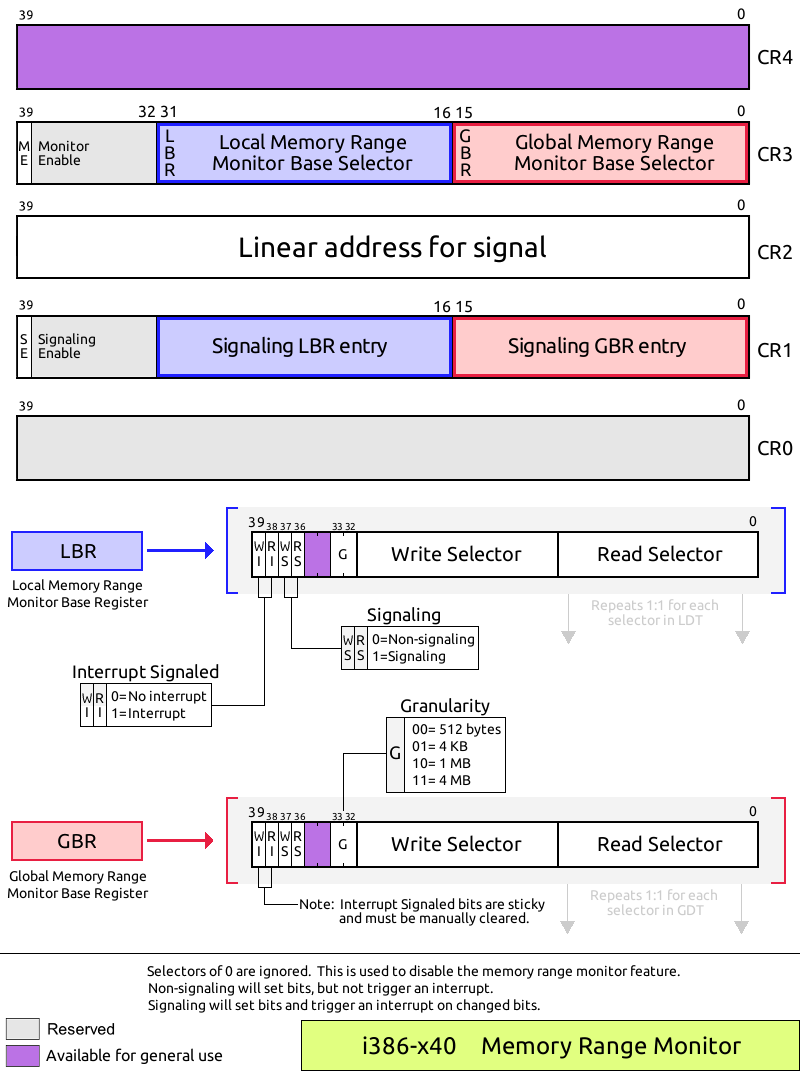
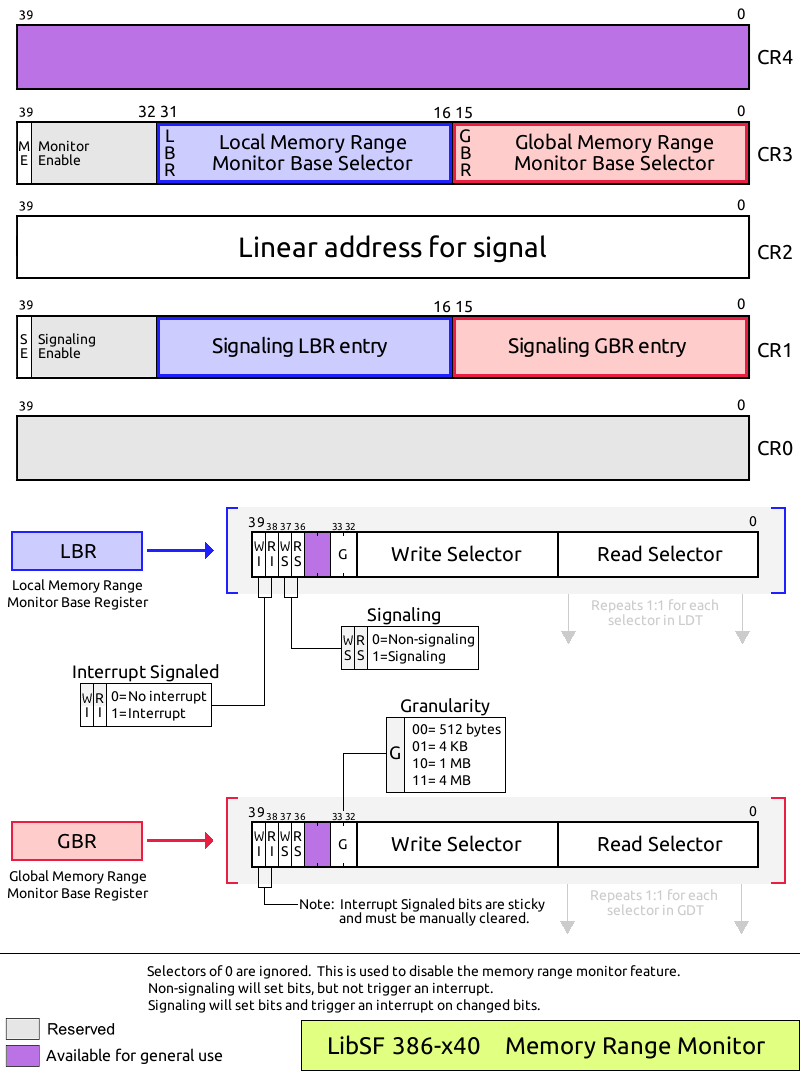
li386 update documentation to reflect current design

Changed region(s): [[0.4062, 0.9552, 0.9688, 0.986]]

diff --git a/li386/oppie/README.md b/li386/oppie/README.md
@@ -13,28 +13,33 @@ Oppie-1 -- (in progress) A simple 8-bit CPU with eight opcodes, 2 KB of
 
 Oppie-2 -- (planned) An extension of Oppie-1 supporting more instructions,
 		eight 32-bit registers and full 32-bit unsigned integer
-		processing and instructions.
+		processing and instructions, a stack, tasks, and selectors.
 
-Oppie-3 -- (planned) Adds a stack pointer, stack, CALL and RET support.
-Oppie-4 -- (planned) Adds signed integer support, interrupts, timer.
-Oppie-5 -- (planned) Adds multiple tasks/processes, scheduling one at
-		a time, fullly preemptive context switching.
-Oppie-6 -- (planned) Adds multiple cores.
+Oppie-3 -- (planned) A near i386 compatible machine, but with many
+		planned LibSF 386-x40 features.
+
+Oppie-4 -- (planned) A dual-core Oppie-3.
+
+Oppie-5 -- (planned) A full LibSF 386-x40 core.
+		
+Oppie-6 -- (planned) A Love Threading Oppie-5.
+
+Oppie-7 -- (planned) A dual-core Oppie-6.
 
 -----
-The final goal is the basic framework necessary to bring the LibSF
-"i386-x40" to life (hereafter called li386 for short).
+The final goal is the basic framework necessary to bring the
+"LibSF 386-x40" to life (hereafter called li386 for short).
 
 The li386 architecture defines:
 
 	(1)  Only protected-mode operations.
 	(2)  32-bit or 40-bit processing.
-	(3)  FPU and SIMD as first-class citizens.
-	(4)  Four cores.
+	(3)  FPU and SIMD as first-class citizens, no FPU stack in li386 mode.
+	(4)  Two cores, each with Love Threading (two tightly coupled threads).
 	(5)  1TB of addressable memory per core.
 	(6)  1TB of addressable memory shared in common (5TB total).
 	(7)  Support for multiple ISAs, including:
-		(a) li386 (LibSF's revamp of the x86 opcodes)
+		(a) li386 (LibSF's revamp of the i386 opcodes)
 		(b) liARM (a large subset of ARMv7's 32-bit ISA)
 		(c) i386 ISAs (80386 opcodes with some newer features
 			added bringing it closer to i686)
